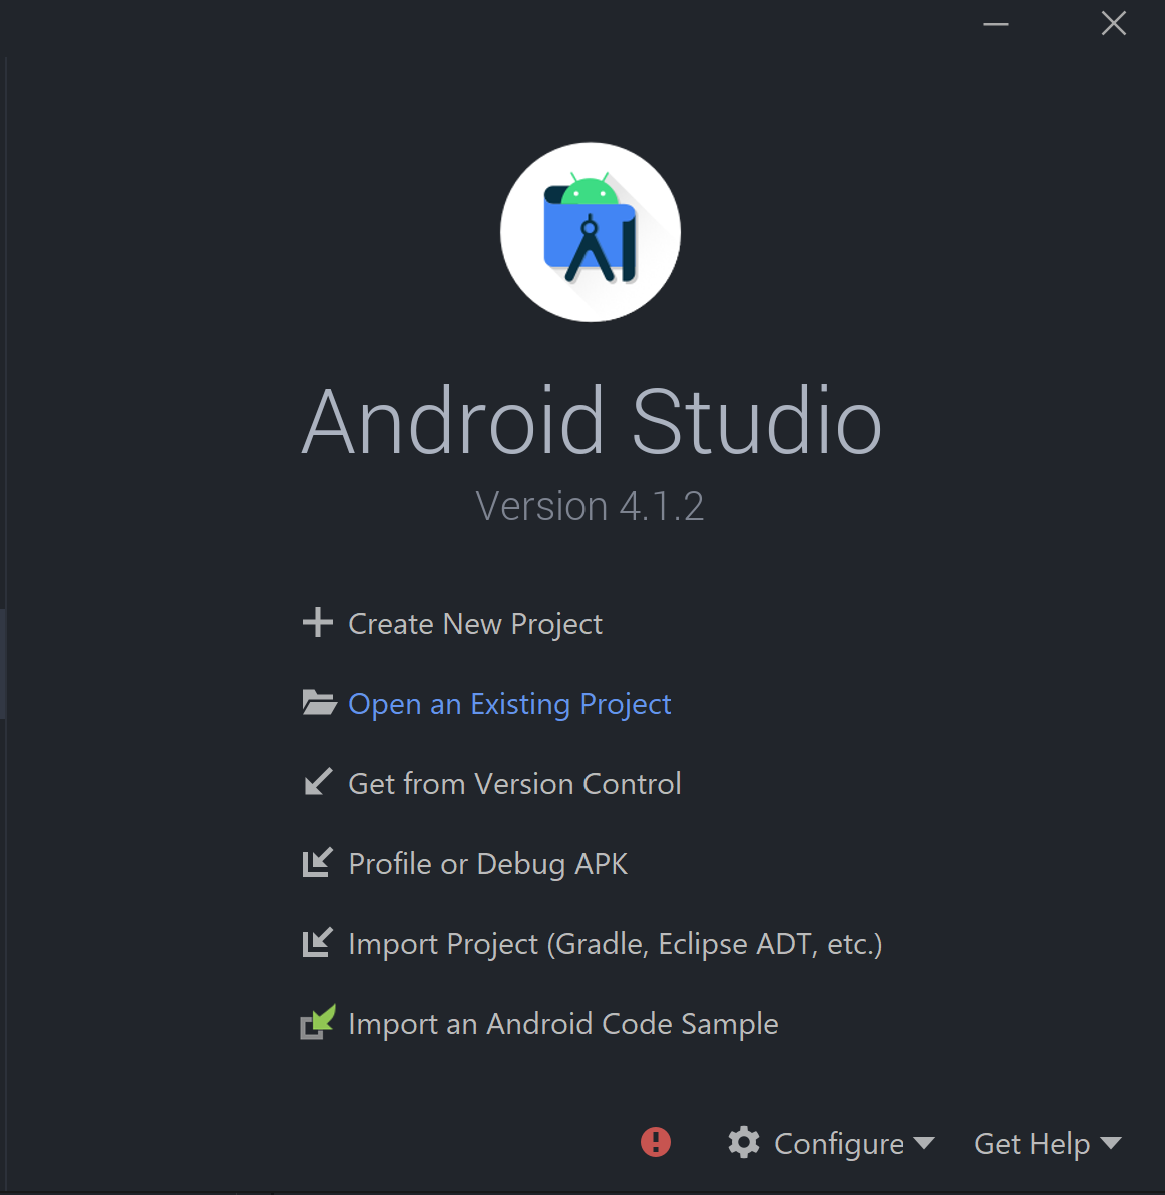
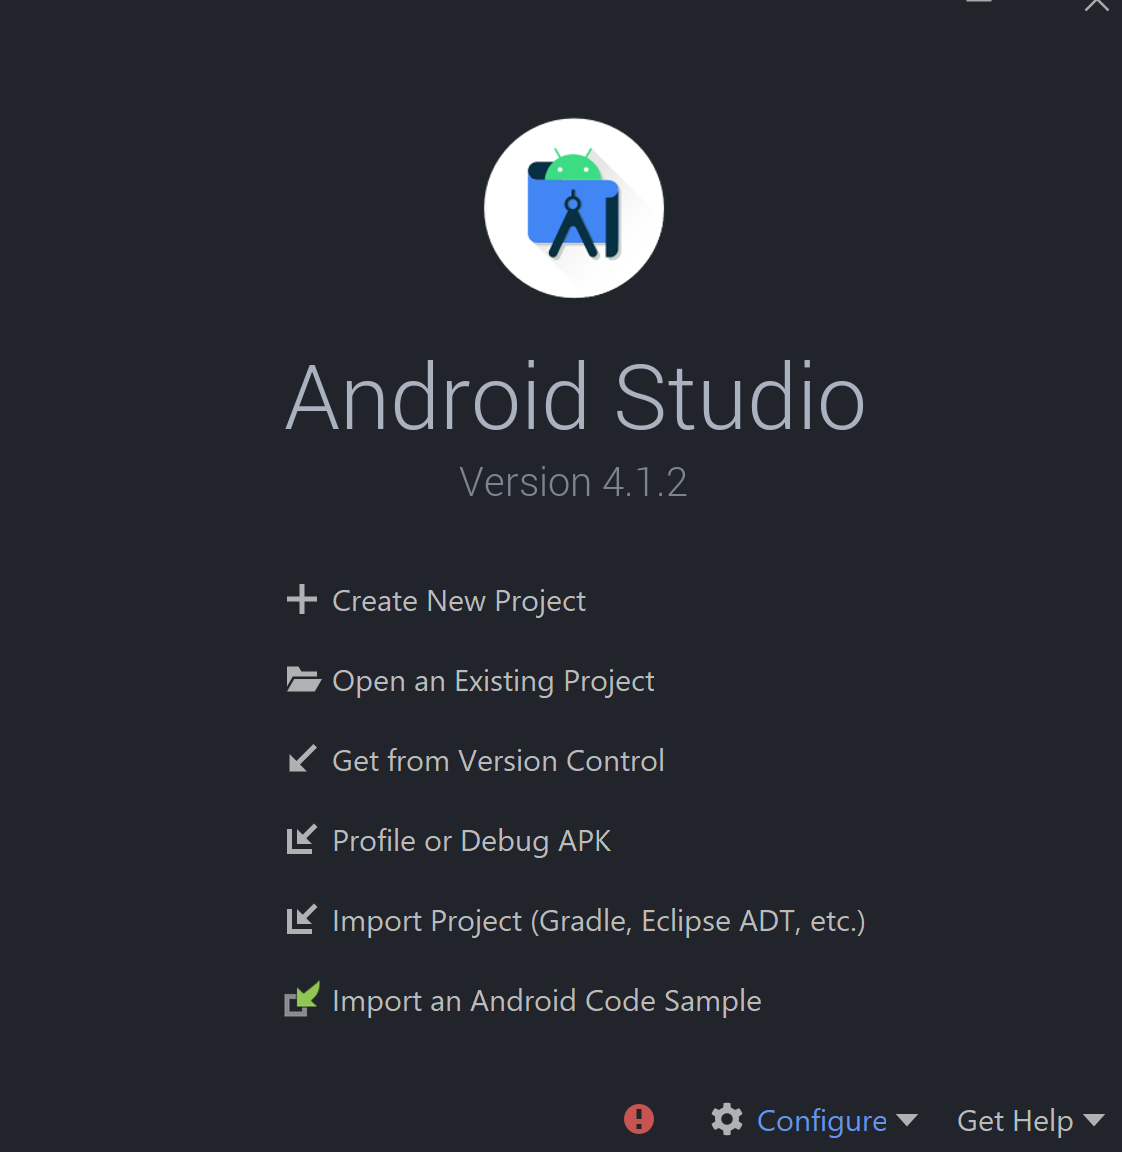
update Readme.md

diff --git a/README.md b/README.md
@@ -9,10 +9,12 @@ How to execute Det.App in your machine (EASY) :
  
 1- Download Android Studio from here : [Android Studio](https://developer.android.com/studio)
 
-2 - Open Android Studio, then click on Start a new Android Studio project :
-![tuto](https://github.com/HajarELKHANFRI/DetApp/raw/master/pics/tuto1.png)
+2 - Open Android Studio, then click on Get from version control:
+![tuto1](https://github.com/HajarELKHANFRI/DetApp/raw/master/pics/tuto1.png)
 
-3 - Click on VCS then Get from Version Control... then paste this link https://github.com/HajarELKHANFRI/DetApp.git as you see in the image below :
+3 - Then paste the repository [link](https://github.com/HajarELKHANFRI/DetApp) as you see in the image below :
+![tuto2](https://github.com/HajarELKHANFRI/DetApp/raw/master/pics/tuto2.png)
+
 
 4 - Click on Clone.
 
